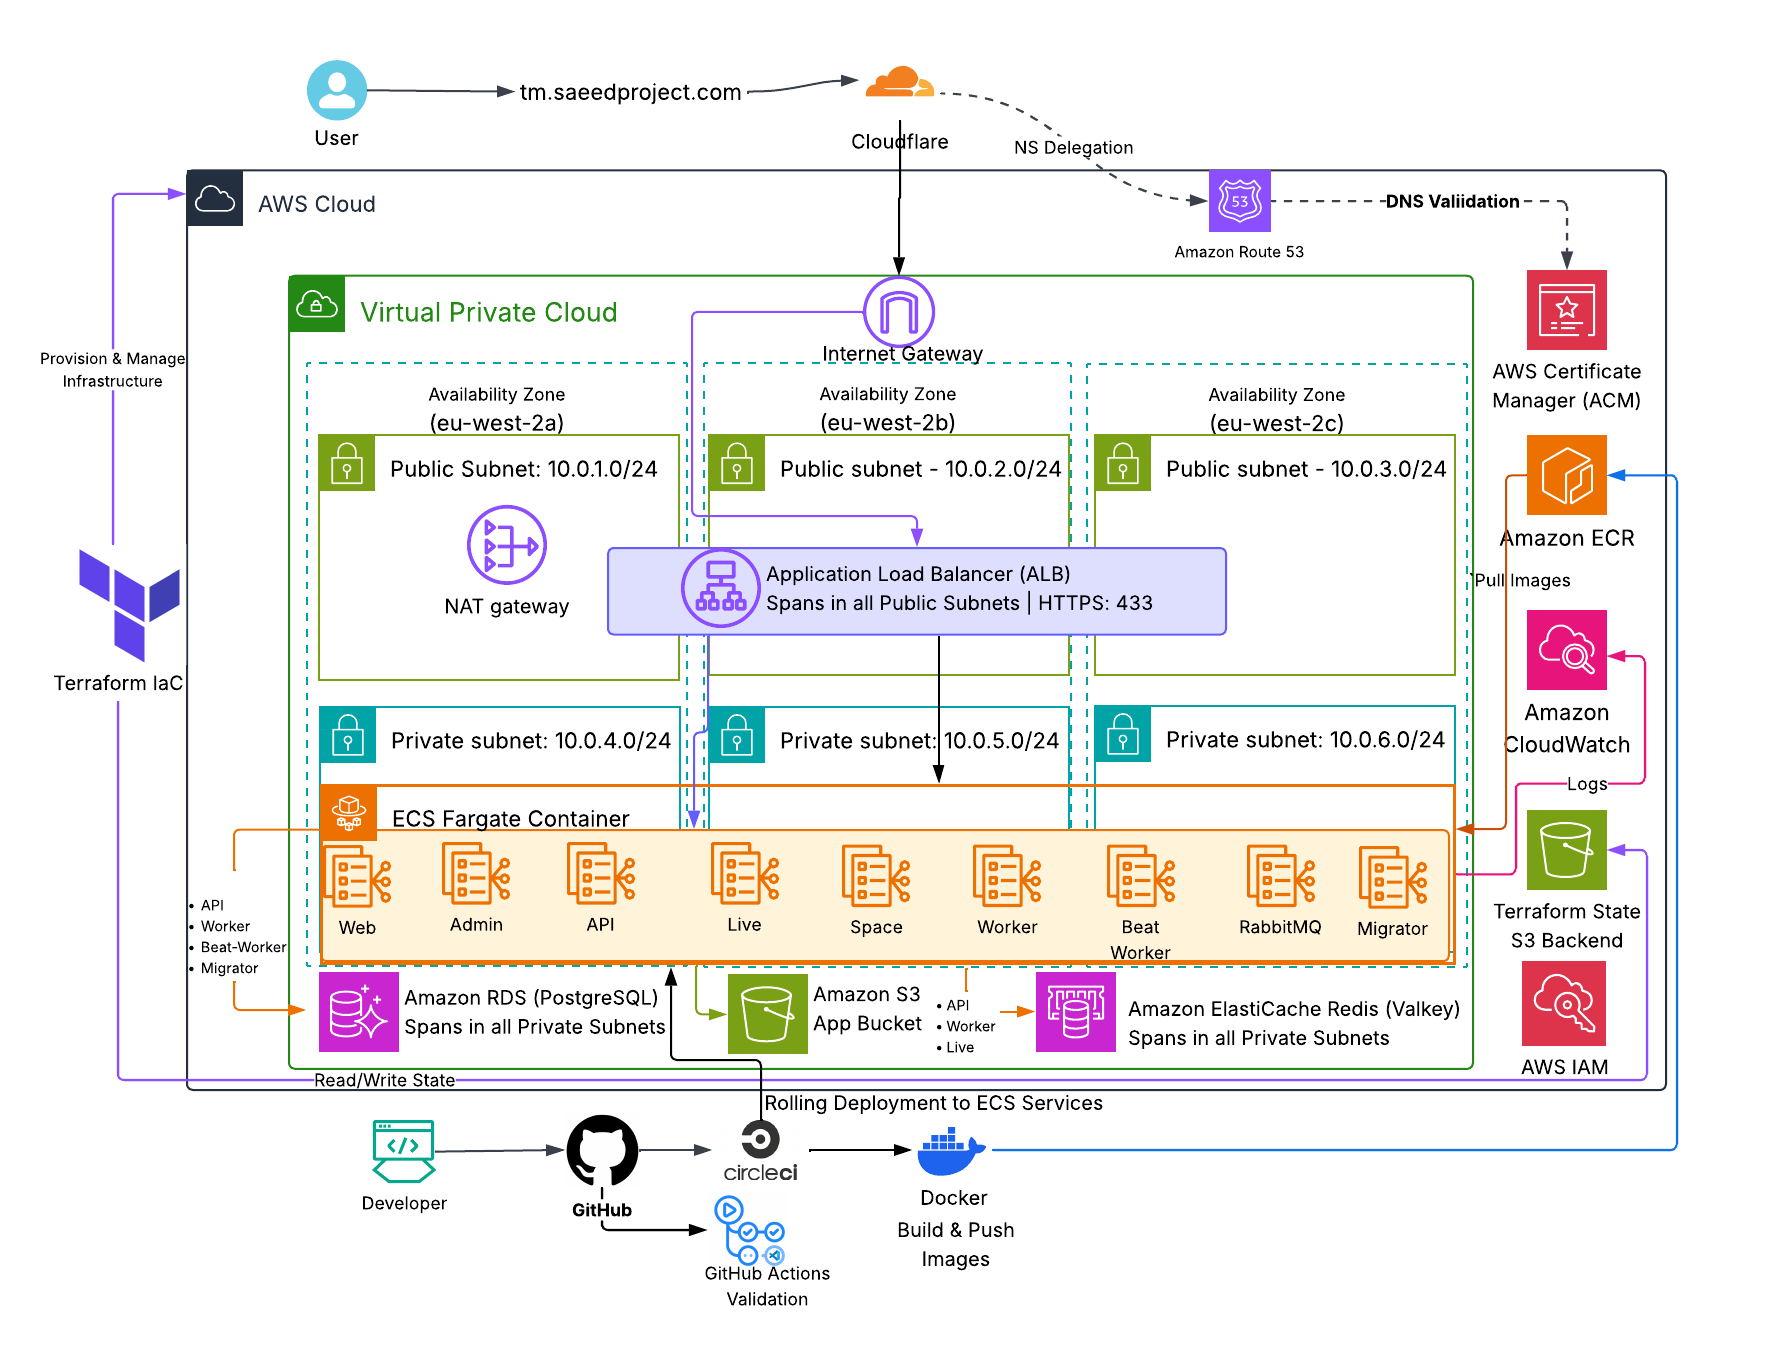
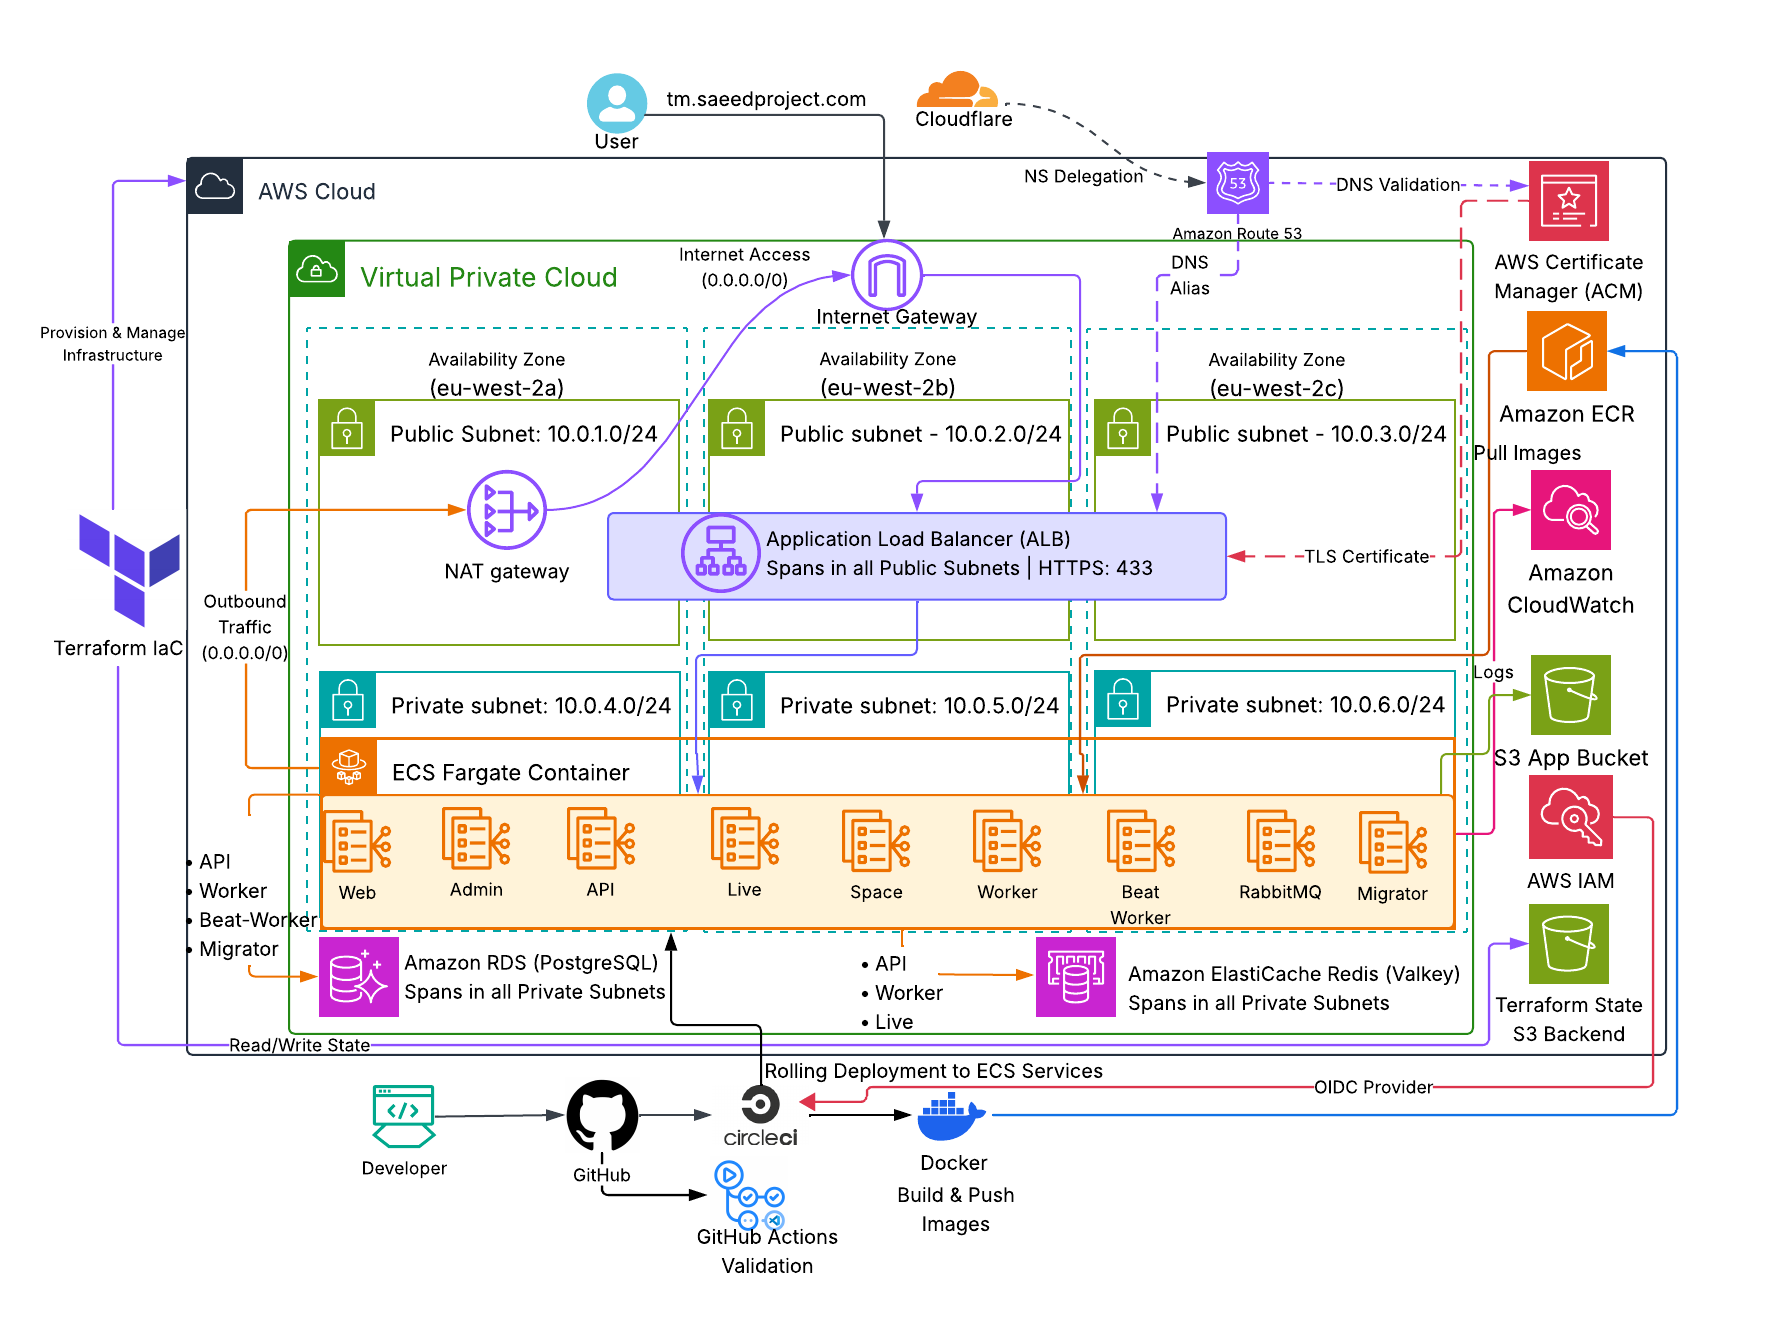
Readme updated and tfvars example file created

Changed region(s): [[0.0309, 0.031, 0.9589, 0.9614], [0.0309, 0.2481, 0.1237, 0.3101]]

diff --git a/ReadMe.md b/ReadMe.md
@@ -1,1 +1,316 @@
-ReadMe
+# Plane on AWS ECS with Terraform
+
+This project brings together Docker, Amazon ECS Fargate, Terraform and CI/CD to self-host [Plane Community Edition](https://plane.so/) on AWS.
+
+I chose Plane because I use it to manage my dissertation timeline. It helps me break the project into tasks, organise milestones and track my progress towards submission. Hosting it myself gives me a practical reason to build and maintain the infrastructure behind the application.
+
+**Application domain:** [tm.saeedproject.com](https://tm.saeedproject.com)
+
+## Technology stack
+
+
+### Infrastructure and deployment
+
+![Infrastructure and deployment](https://skillicons.dev/icons?i=aws,docker,terraform,bash,githubactions)
+
+### Database and messaging
+
+![Database and messaging](https://skillicons.dev/icons?i=postgres,redis,rabbitmq)
+
+## Contents
+
+- [Overview of my setup](#overview-of-my-setup)
+- [Architecture](#architecture)
+- [Application services](#application-services)
+- [CI/CD workflow](#cicd-workflow)
+- [IAM and CircleCI authentication](#iam-and-circleci-authentication)
+- [Reproducing the setup](#reproducing-the-setup)
+- [Deployment verification and screenshots](#deployment-verification-and-screenshots)
+- [Challenges and lessons learned](#challenges-and-lessons-learned)
+- [Cost and clean-up](#cost-and-clean-up)
+
+## Overview of my setup
+
+My Terraform design places the application in a custom VPC across three Availability Zones, with three public subnets and three private subnets. An internet-facing Application Load Balancer accepts HTTPS requests in the public subnets and forwards them to Plane workloads running on ECS Fargate in the private subnets.
+
+My NAT gateway is located in Public Subnet 1 (`10.0.1.0/24`) in `eu-west-2a`. The private subnets use routes pointing to this gateway when their workloads need internet access. The gateway forwards that traffic through the VPC internet gateway, allowing the ECS tasks to make outbound connections while remaining in private subnets. I chose one NAT gateway to reduce costs; this means outbound internet access depends on that gateway and its Availability Zone.
+
+I chose ECS Fargate because Plane has several connected services: user interfaces, an API, real-time collaboration and background workers. Fargate lets me run those containers without managing the underlying EC2 hosts. ECS also provides service scheduling, health monitoring and rolling deployments. This gives me practical experience with container orchestration while keeping the infrastructure manageable for a personal project. I am the main user of the environment, although Plane is also suitable for students, researchers and small teams organising their work.
+
+| Component | Role in my design |
+| --- | --- |
+| Docker | Packages Plane services using my custom Dockerfiles |
+| Terraform | Defines and provisions the AWS infrastructure |
+| Custom VPC | Separates public entry points from private workloads |
+| Application Load Balancer | Routes incoming HTTPS requests to healthy application targets |
+| ECS Fargate | Runs Plane containers without EC2 host administration |
+| ECR | Stores application images for deployment |
+| Route 53 and ACM | Provide application DNS and the ALB's TLS certificate |
+| NAT gateway | Provides outbound internet connectivity for private workloads |
+| RDS PostgreSQL | Provides the application's relational database |
+| ElastiCache Valkey | Provides Redis-compatible caching |
+| RabbitMQ on ECS | Provides messaging for background processing |
+| Object storage | Holds uploaded application files |
+| CloudWatch | Collects container logs for troubleshooting |
+| GitHub Actions | Validates changes pushed to GitHub |
+| CircleCI | Builds container images and initiates ECS deployments |
+| IAM OIDC provider and deployment role | Establish CircleCI's AWS access through temporary credentials |
+| S3 remote state | Stores Terraform state centrally with state locking |
+
+## Architecture
+
+![Project Architecture](/Images/ECS%20Project%20Architecture.png "Project Architecture")
+
+Route 53 resolves the application domain to the ALB. The browser connects to the ALB over HTTPS, using the certificate issued through ACM. The ALB then routes the request to a healthy application target in the private subnets.
+
+The NAT gateway serves a separate purpose: it allows private workloads to initiate outbound internet connections. Application requests reach the containers through the ALB. Security groups control which connections are permitted between the load balancer, application and supporting services.
+
+CircleCI runs outside the VPC. Its access to ECR and the ECS deployment APIs uses an IAM OpenID Connect (OIDC) provider and a deployment role at the AWS account level. These are separate from the application's inbound and outbound network paths.
+
+### Terraform state
+
+My remote-state configuration uses S3 with encryption and S3 lock files. The backend bucket is separate from application storage and must exist before Terraform initialises the backend. The state key is `plane/prod/terraform.tfstate` in `eu-west-2`.
+
+## Application services
+
+| Service | Purpose |
+| --- | --- |
+| `web` | Main Plane interface for projects, tasks and milestones |
+| `admin` | Instance administration and God Mode |
+| `space` | Public and shared content interface |
+| `api` | Backend application logic and API endpoints |
+| `live` | Real-time collaboration |
+| `worker` | Asynchronous background processing |
+| `beat-worker` | Scheduled background processing |
+| `migrator` | One-off database schema migrations |
+
+I build the application images from the Plane source using custom Dockerfiles. The application depends on PostgreSQL, Valkey, RabbitMQ and object storage in addition to the user-facing services.
+
+## CI/CD workflow
+
+My workflow starts when I push a commit to GitHub. GitHub Actions runs the repository validation workflow, while CircleCI handles the container build and deployment workflow for the configured deployment branch. Terraform defines the AWS infrastructure, ECR stores the images and ECS performs the rolling deployment.
+
+The release sequence is:
+
+1. I commit my changes locally and push them to GitHub.
+2. GitHub Actions runs the validation checks defined in the repository workflow.
+3. The GitHub push also triggers the configured CircleCI pipeline for the deployment branch.
+4. CircleCI exchanges its OIDC token for temporary AWS credentials through the IAM deployment role.
+5. CircleCI builds the application images using my custom Dockerfiles, tags them with the commit identifier and pushes them to ECR.
+6. The deployment job prepares ECS task-definition revisions that reference the new images.
+7. A one-off migration task runs before the application rollout when database schema changes are required.
+8. CircleCI updates the ECS services, and ECS replaces the tasks through a rolling deployment.
+9. Service stability and application checks confirm the result of the rollout.
+
+GitHub Actions validation and CircleCI are separate workflows triggered by the GitHub event. This design does not establish a dependency between their results.
+
+Pushing an image to ECR stores the new build. The subsequent ECS service update deploys it to the running application.
+
+## IAM and CircleCI authentication
+
+The CI/CD design uses OIDC federation for CircleCI's AWS access, avoiding stored, long-lived AWS access keys. The IAM identity provider identifies CircleCI as a trusted token issuer; the deployment role defines the access granted to a qualifying job.
+
+| Setting | Configuration |
+| --- | --- |
+| Identity provider type | OpenID Connect (OIDC) |
+| Provider URL | `https://oidc.circleci.com/org/<circleci-organisation-id>` |
+| Audience | CircleCI organisation ID |
+| Role trust | CircleCI provider, with audience and project restrictions |
+| Role assumption action | `sts:AssumeRoleWithWebIdentity` |
+
+The organisation and project IDs are CircleCI identifiers, separate from the AWS account ID. The role's trust policy controls which jobs can assume it; its permissions policy controls the AWS operations those jobs can perform.
+
+AWS Security Token Service (STS) validates the job's token against the configured trust relationship and returns temporary credentials. CircleCI uses those credentials for the permitted build and deployment operations.
+
+### Deployment permissions
+
+The deployment role's permission requirements cover ECR authentication and image pushes, ECS task-definition registration, migration task execution, service updates and deployment status checks. Passing the task and execution roles to ECS requires `iam:PassRole`, restricted to the roles used by this application. Resource restrictions apply wherever the AWS action supports them.
+
+### Separate roles for deployment and runtime
+
+| IAM role | Purpose |
+| --- | --- |
+| CircleCI deployment role | Allows pipeline jobs to publish images and deploy the application |
+| ECS task execution role | Allows the ECS agent to pull images, publish container logs and retrieve referenced secrets when configured |
+| ECS task role | Grants application code inside a running container access to the AWS services it needs |
+
+Terraform provisioning uses the AWS identity running Terraform. Infrastructure permissions are separate from the release permissions described above.
+
+
+## Reproducing the setup
+
+The following sections document my setup sequence. The repository URL, state-bucket name and resource identifiers are deployment-specific. The commands assume the Terraform root is `Terraform/`.
+
+### 1. Tools and AWS access
+
+My local workflow uses Git, Docker with Compose, AWS CLI v2 and Terraform. CircleCI is connected to the application repository, and my AWS CLI profile is `plane-ecs`.
+
+```bash
+git clone <repository-url>
+cd <repository-directory>
+export AWS_PROFILE=plane-ecs
+export AWS_DEFAULT_REGION=eu-west-2
+aws sts get-caller-identity
+```
+
+The identity check confirms which AWS account and role the local deployment commands use.
+
+### 2. Remote-state backend
+
+The backend depends on an existing S3 bucket with versioning, encryption and public access blocking. Its configuration follows this structure, with a globally unique bucket name for the environment:
+
+```hcl
+terraform {
+  backend "s3" {
+    bucket       = "<state-bucket-name>"
+    key          = "plane/prod/terraform.tfstate"
+    region       = "eu-west-2"
+    encrypt      = true
+    use_lockfile = true
+  }
+}
+```
+
+The state bucket remains available throughout deployment and clean-up. Credentials and sensitive variable values belong outside the repository.
+
+### 3. Infrastructure configuration
+
+My environment configuration covers the AWS region, VPC and subnet ranges, application domain, image references, task sizes and supporting services. I use `terraform.tfvars` for environment-specific values, with variable names and types defined in the root module's `variables.tf`.
+
+The network design uses the following values:
+
+| Setting | Value |
+| --- | --- |
+| Region | `eu-west-2` |
+| Application domain | `tm.saeedproject.com` |
+| VPC CIDR | `10.0.0.0/16` |
+| Availability Zones | `eu-west-2a`, `eu-west-2b`, `eu-west-2c` |
+| Public subnets | `10.0.1.0/24`, `10.0.2.0/24`, `10.0.3.0/24` |
+| Private subnets | `10.0.4.0/24`, `10.0.5.0/24`, `10.0.6.0/24` |
+
+Credentials and secret values remain outside version control. Backend settings are defined separately from `terraform.tfvars`.
+
+With the environment values configured, the Terraform commands are:
+
+```bash
+cd Terraform
+terraform init
+terraform fmt -check -recursive
+terraform validate
+terraform plan -out=tfplan
+terraform apply tfplan
+```
+
+`terraform init` initialises the backend and providers. The formatting and validation checks run before the plan. I review the saved plan before applying it so that the changes being applied are the changes I have inspected.
+
+The initial deployment depends on image availability: ECR repositories and initial images must be ready before ECS can start tasks that reference them. The CircleCI OIDC provider and deployment role must also exist before the first authenticated pipeline run.
+
+### 4. DNS and HTTPS
+
+My application hostname is `tm.saeedproject.com`. The DNS design uses a delegated Route 53 zone for the application subdomain, with delegation configured at the parent domain's DNS provider. Route 53 points the application hostname to the ALB, and ACM supplies the certificate for the HTTPS listener.
+
+DNS delegation and certificate validation must complete before HTTPS verification can succeed.
+
+### 5. CircleCI AWS access
+
+The pipeline's AWS authentication configuration consists of the IAM OIDC provider, role trust policy, deployment permissions and deployment role ARN. The CircleCI job authenticates before calling ECR or ECS. The provider URL and audience use the CircleCI organisation ID, while the role trust also restricts access to the project.
+
+The job configuration supplies the role ARN, AWS region, ECR repositories, ECS cluster, service identifiers and task definitions used by the release. An `aws sts get-caller-identity` check within the authenticated job identifies the assumed role.
+
+### 6. Application deployment
+
+A deployment-branch change starts the build and release workflow described above.
+
+The deployment is ready for application testing when the migration task has succeeded, the ECS services have stabilised and the relevant ALB targets are healthy.
+
+## Deployment verification and screenshots
+
+I verified the application through its HTTPS domain during the initial console deployment. That environment has since been removed. Screenshots of the complete Terraform deployment are pending.
+
+My verification covers the following:
+
+| Check | Result I am verifying |
+| --- | --- |
+| Public HTTPS endpoint | Plane loads through `tm.saeedproject.com` with a trusted certificate |
+| ECS services | Desired and running task counts match and services remain stable |
+| ALB target groups | Application targets report healthy |
+| CircleCI workflow | Image builds, ECR pushes and ECS deployment jobs complete successfully |
+| CircleCI AWS identity | The authenticated job assumes the intended IAM deployment role |
+| Application behaviour | I can open my workspace and create or update dissertation tasks |
+| Container logs | No recurring startup, connection or application errors |
+| God Mode redirect | The redirect retains HTTPS without exposing internal port `3000` |
+
+My public endpoint checks are:
+
+```bash
+curl -I https://tm.saeedproject.com
+curl -I https://tm.saeedproject.com/god-mode
+curl -I https://tm.saeedproject.com/god-mode/
+```
+
+During the console deployment, I found that `/god-mode` redirected to `http://tm.saeedproject.com:3000/god-mode/`, while the trailing-slash route worked. Correcting and retesting this behaviour is part of my Terraform deployment work.
+
+## Challenges and lessons learned
+
+### Choosing health-check endpoints
+
+I learned that a running container can still fail a health check. The route, listening port and expected response all matter: a missing endpoint, authentication requirement or redirect can make a check fail even when the process is running.
+
+During the backend investigation, the logs showed `GET /api/users/session/` returning HTTP `200`. This confirmed that the route responded during that deployment, but did not establish the health of every application dependency.
+
+My endpoint investigation considers:
+
+| Item | What I check |
+| --- | --- |
+| Path | The route exists in the deployed version of the service |
+| Port and protocol | The check reaches the intended application listener |
+| Response | The returned status matches the configured success code |
+| Authentication and redirects | The route behaves predictably without a browser session |
+| Reachability | The ALB can reach the target through the relevant security groups |
+| Application readiness | What a successful response actually proves about the service |
+
+I also learned to check which Plane edition the documentation describes. The dedicated `/api/live/`, `/api/ready/` and `/api/health/` endpoints are documented for Commercial Edition. My project uses Community Edition, and my request to `/api/health` returned `404`. Community Edition provides a basic API root check at `/`, rather than those dedicated probes.
+
+The basic API check runs directly against the API container's listening port, from inside the container with `curl` available:
+
+```bash
+curl -i http://127.0.0.1:8000/
+```
+
+The documented response is `200` with `{"status":"OK"}`. This is a basic process-response check; it does not establish database or cache readiness. The public domain's `/` route can lead to the web frontend, so a successful homepage response does not verify the API root. The API target group's health-check path and port must address the API service directly.
+
+ALB HTTP health checks use `GET`, so I use GET requests when checking endpoint behaviour. The public header checks above use `curl -I`, which sends `HEAD`.
+
+
+### Adjusting the health-check threshold
+
+During deployment, the service was being reported as unhealthy. After I increased the health-check threshold, the service became healthy. This taught me that health-check configuration can affect how a deployment is evaluated, alongside the application's endpoint and response.
+
+This also helped me distinguish thresholds from startup grace periods. The unhealthy threshold controls consecutive failures before a target becomes unhealthy; the healthy threshold controls successful checks needed for recovery. The ECS health-check grace period separately controls how long the scheduler ignores unhealthy checks after a task starts.
+
+### Separating image delivery from deployment
+
+I learned that uploading an image to ECR is only one stage of a release. The ECS service must use the new image reference before the application changes. This distinction shaped my CircleCI workflow: build and push the images, then update the task definitions and services and check the rollout.
+
+### Understanding the request path
+
+Working through the architecture helped me distinguish incoming requests through the ALB from outgoing connections through NAT. It also taught me to test application redirects as well as the homepage. The `/god-mode` issue showed that a working HTTPS page can coexist with an incorrect redirect that exposes an internal port.
+
+
+## Cost and clean-up
+
+This is a personal learning environment, so I balance availability with running costs. The single NAT gateway is one example of that trade-off. Spreading subnets across three Availability Zones provides a foundation for resilience, but actual application availability also depends on task placement, replica counts and the configuration of the data services.
+
+When I no longer need the environment, my clean-up sequence is:
+
+```bash
+# From the Terraform root
+terraform plan -destroy -out=destroy.tfplan
+terraform apply destroy.tfplan
+```
+
+I review the destruction plan and retain any required database backups or uploaded files before removing stateful resources. The remote-state bucket stays available until the managed infrastructure has been removed and Terraform has recorded the final state.
+
+---
+
+Plane is developed by its upstream contributors. This repository documents my infrastructure and deployment work; Plane retains its original licence and attribution requirements.
